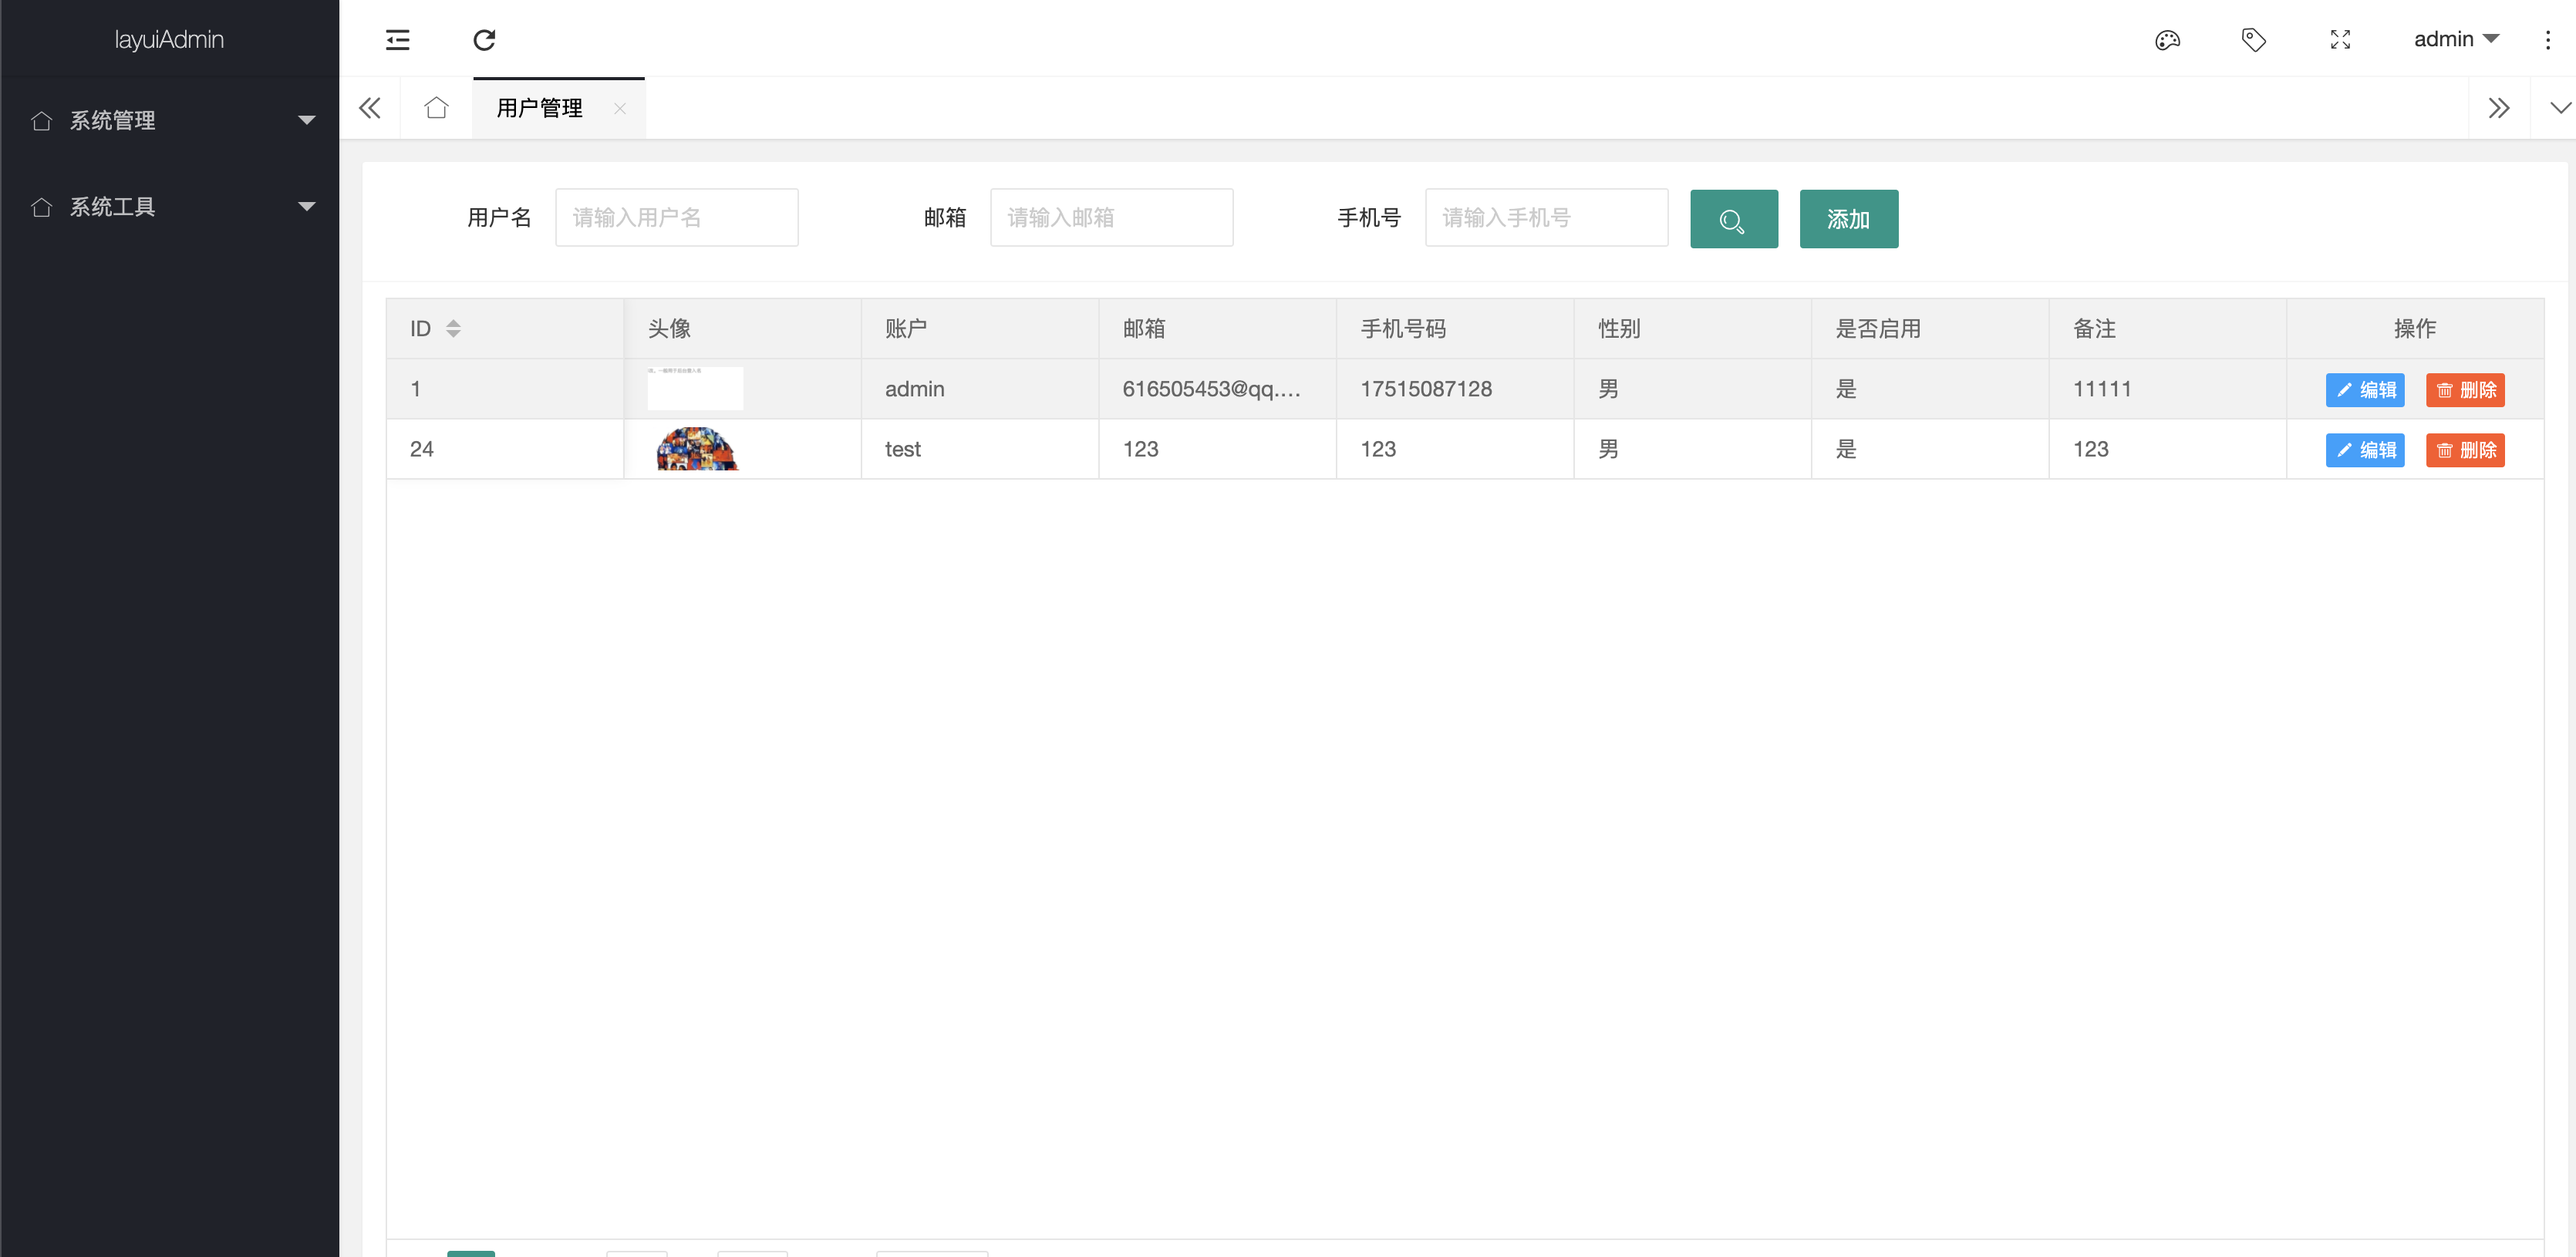
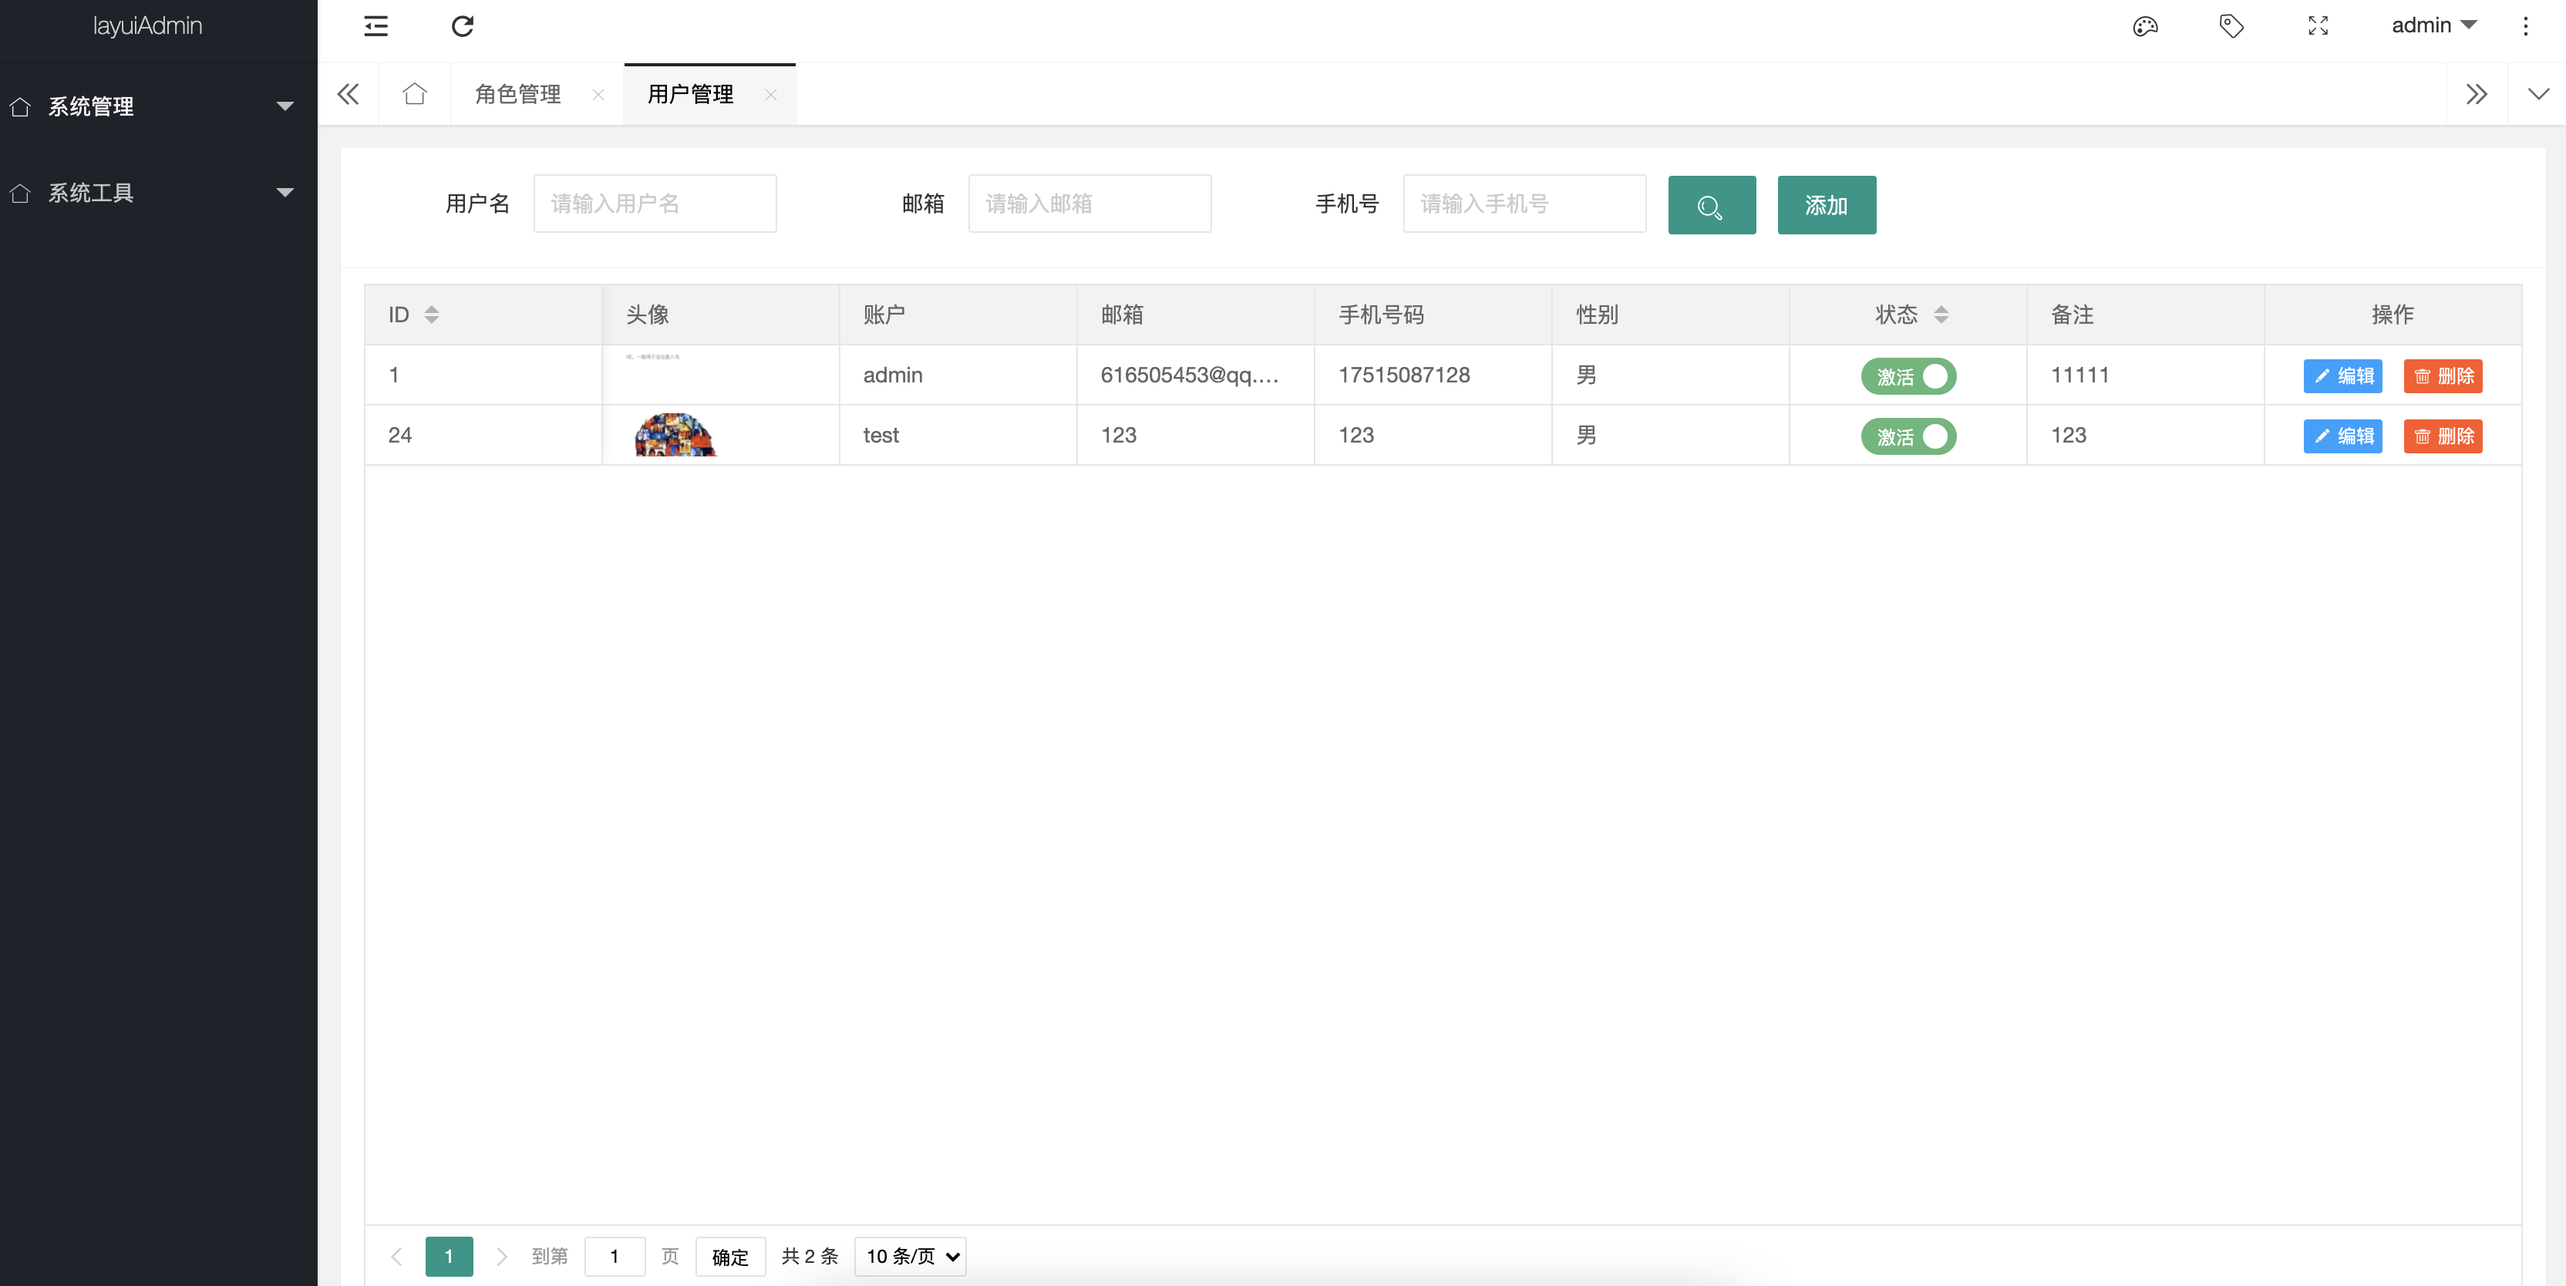
table修改用户状态

diff --git a/src/main/resources/templates/system/sysUser/list.html b/src/main/resources/templates/system/sysUser/list.html
@@ -42,6 +42,9 @@
       </div>
       <div class="layui-card-body">
         <table id="userTable" lay-filter="userTable"></table>
+        <script type="text/html" id="enabledTpl">
+          <input type="checkbox" lay-filter="enabled" value="{{d.id}}" lay-skin="switch" lay-text="激活|冻结" {{d.enabled==1?'checked':''}} />
+        </script>
         <script type="text/html" id="tableBar">
           <a sec:authorize="hasAuthority('user:edit')" class="layui-btn layui-btn-normal layui-btn-xs" lay-event="edit"><i class="layui-icon layui-icon-edit"></i>编辑</a>
           <a sec:authorize="hasAuthority('user:del')" class="layui-btn layui-btn-danger layui-btn-xs" lay-event="del"><i class="layui-icon layui-icon-delete"></i>删除</a>
@@ -67,6 +70,12 @@
           table.reload('userTable', {
               where: field
           });
+      });
+      // 修改user状态
+      form.on('switch(enabled)', function (obj) {
+          var userId = obj.elem.value;
+          var checked = obj.elem.checked ? 1 : 0;
+          active.changeUserEnabled(userId,checked);
       });
       // 查询列表接口
       table.render({
@@ -108,15 +117,7 @@
                     }
                   }
                }
-              ,{field: 'enabled', title: '是否启用',
-                  templet:function (d) {
-                      if (d.enabled == 1) {
-                          return "是";
-                      } else {
-                          return "否";
-                      }
-                  }
-              }
+               ,{field: 'enabled', align: "center", sort: true, templet: '#enabledTpl', title: '状态'}
               ,{field: 'remark', title: '备注'}
               ,{toolbar: '#tableBar', title: '操作', width: 165, align:'center',fixed: 'right'}
           ]]
@@ -196,8 +197,31 @@
                       }
                   });
               });
+          },
+          /**
+           * 修改用户状态
+           * @param userId 用户id
+           * @param checked 状态
+           */
+          changeUserEnabled: function (userId,checked) {
+              $.ajax({
+                  type: 'POST',
+                  url:  ctx + '/sysUser/edit',
+                  data: JSON.stringify({
+                      id: userId,
+                      enabled: checked
+                  }),
+                  contentType:'application/json;charset=UTF-8',
+                  dataType: 'json',
+                  success: function(result) {
+                      layer.msg(result.message);
+                      if (result.code == 200) {
+                          table.reload('userTable');
+                      }
+                  }
+              });
           }
-      }
+      };
   });
   </script>
 </body>
